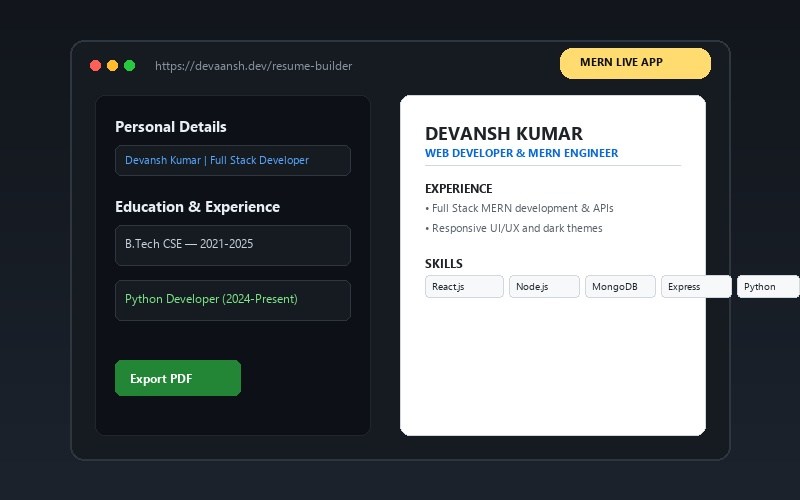
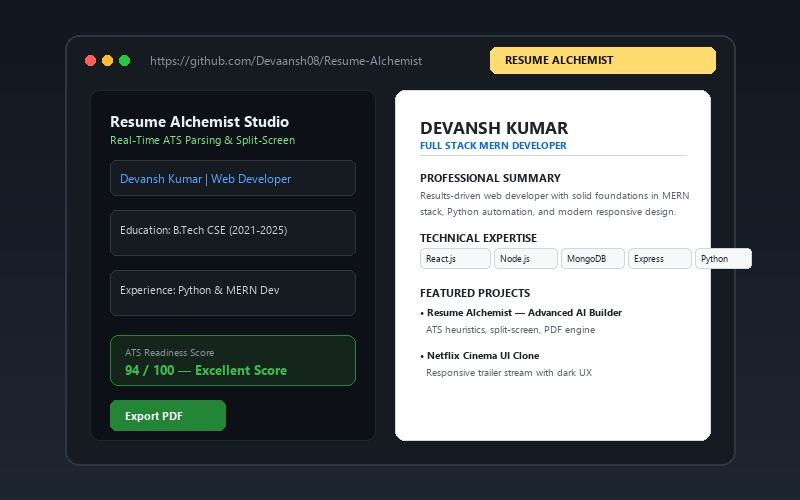
feat: integrate Resume-Alchemist into Resume Builder section and portfolio showcase

Changed region(s): [[0.0625, 0.06, 1.0, 0.93], [0.125, 0.21, 0.4375, 0.66], [0.125, 0.69, 0.4375, 0.87]]

diff --git a/client/src/pages/ResumeBuilder.jsx b/client/src/pages/ResumeBuilder.jsx
@@ -56,10 +56,10 @@ const initialResumeState = {
   ],
   projects: [
     {
-      title: 'MERN Stack Personal Portfolio',
-      link: 'https://github.com/Devaansh08/-Personal-Portfolio',
+      title: 'Resume Alchemist — Advanced AI Builder',
+      link: 'https://github.com/Devaansh08/Resume-Alchemist',
       description:
-        'Full-stack portfolio featuring dynamic MongoDB backend, REST endpoints, interactive Resume Builder, and responsive dark glassmorphism UI.',
+        'Enterprise-grade full-stack resume builder featuring real-time ATS heuristic evaluation, split-screen preview, multi-format import, and cloud persistence.',
     },
     {
       title: 'Netflix UI Streaming Clone',
@@ -75,6 +75,23 @@ export default function ResumeBuilder() {
   const [toast, setToast] = useState(null);
   const [newSkill, setNewSkill] = useState('');
   const [isSaving, setIsSaving] = useState(false);
+  const [selectedTemplate, setSelectedTemplate] = useState('Modern');
+
+  const calculateATSScore = () => {
+    let score = 0;
+    if (resume.personalInfo.fullName?.trim()) score += 10;
+    if (resume.personalInfo.email?.trim()) score += 10;
+    if (resume.personalInfo.phone?.trim()) score += 5;
+    if (resume.personalInfo.location?.trim()) score += 5;
+    if (resume.personalInfo.summary?.trim()?.length > 40) score += 15;
+    if (resume.education?.length > 0) score += 15;
+    if (resume.experience?.length > 0) score += 20;
+    if (resume.skills?.length >= 4) score += 10;
+    if (resume.projects?.length > 0) score += 10;
+    return Math.min(100, score);
+  };
+
+  const atsScore = calculateATSScore();
 
   const showToast = (type, message) => {
     setToast({ type, message });
@@ -221,13 +238,39 @@ export default function ResumeBuilder() {
     <article className="resume-builder active" data-page="resume-builder">
       <header className="resume-builder-header">
         <div>
-          <h2 className="h2 article-title">Resume Builder</h2>
-          <p style={{ color: 'var(--light-gray-70)', fontSize: 'var(--fs-6)', marginTop: '4px' }}>
-            Full-stack MERN interactive generator with real-time preview and MongoDB sync.
+          <div style={{ display: 'flex', alignItems: 'center', gap: '10px', flexWrap: 'wrap' }}>
+            <h2 className="h2 article-title" style={{ margin: 0 }}>Resume Alchemist</h2>
+            <span
+              style={{
+                fontSize: '11px',
+                color: 'var(--orange-yellow-crayola)',
+                background: 'rgba(255, 219, 112, 0.15)',
+                padding: '4px 10px',
+                borderRadius: '8px',
+                border: '1px solid var(--orange-yellow-crayola)',
+                fontWeight: '600',
+              }}
+            >
+              v2.0 Full-Stack Engine
+            </span>
+          </div>
+          <p style={{ color: 'var(--light-gray-70)', fontSize: 'var(--fs-6)', marginTop: '6px' }}>
+            Powered by <strong>Resume Alchemist</strong> — real-time ATS optimization, split-screen live preview, and MongoDB cloud sync.
           </p>
         </div>
 
         <div className="resume-builder-actions">
+          <a
+            href="https://github.com/Devaansh08/Resume-Alchemist"
+            target="_blank"
+            rel="noopener noreferrer"
+            className="btn-secondary"
+            title="View Resume-Alchemist repository on GitHub"
+          >
+            <ion-icon name="logo-github"></ion-icon>
+            <span>GitHub Repo</span>
+          </a>
+
           <button
             type="button"
             className="btn-secondary"
@@ -264,6 +307,63 @@ export default function ResumeBuilder() {
           </button>
         </div>
       </header>
+
+      {/* Real-time ATS & Template Switcher Bar */}
+      <div
+        style={{
+          display: 'flex',
+          justifyContent: 'space-between',
+          alignItems: 'center',
+          flexWrap: 'wrap',
+          gap: '12px',
+          background: 'var(--onyx)',
+          border: '1px solid var(--jet)',
+          borderRadius: '14px',
+          padding: '12px 18px',
+          marginBottom: '20px',
+        }}
+      >
+        <div style={{ display: 'flex', alignItems: 'center', gap: '12px' }}>
+          <div
+            style={{
+              width: '36px',
+              height: '36px',
+              borderRadius: '8px',
+              background: atsScore >= 80 ? 'rgba(46, 204, 113, 0.15)' : 'rgba(243, 156, 18, 0.15)',
+              display: 'flex',
+              alignItems: 'center',
+              justifyContent: 'center',
+              color: atsScore >= 80 ? '#2ecc71' : '#f39c12',
+              fontSize: '18px',
+            }}
+          >
+            <ion-icon name="speedometer-outline"></ion-icon>
+          </div>
+          <div>
+            <div style={{ fontSize: '11px', color: 'var(--light-gray-70)', textTransform: 'uppercase', letterSpacing: '0.5px' }}>
+              Real-Time ATS Readiness Score
+            </div>
+            <div style={{ fontSize: '14px', fontWeight: '600', color: atsScore >= 80 ? '#2ecc71' : '#f39c12' }}>
+              {atsScore} / 100 — {atsScore >= 80 ? 'Excellent Match (ATS Pass)' : 'Good Progress (Add more details)'}
+            </div>
+          </div>
+        </div>
+
+        <div style={{ display: 'flex', alignItems: 'center', gap: '8px' }}>
+          <span style={{ fontSize: '12px', color: 'var(--light-gray)' }}>Template:</span>
+          {['Modern', 'Executive', 'Minimalist'].map((t) => (
+            <button
+              key={t}
+              type="button"
+              onClick={() => setSelectedTemplate(t)}
+              className={selectedTemplate === t ? 'btn-primary' : 'btn-secondary'}
+              style={{ padding: '4px 10px', fontSize: '11px' }}
+            >
+              {t}
+            </button>
+          ))}
+        </div>
+      </div>
 
       {/* Toast Alert */}
       {toast && (

diff --git a/server/seed/seed.js b/server/seed/seed.js
@@ -88,13 +88,13 @@ const seedProfile = {
 const seedProjects = [
   // 1. Applications (App Development)
   {
-    title: 'Resume Builder (MERN Stack)',
+    title: 'Resume Alchemist (AI Resume Builder)',
     category: 'applications',
     image: '/projects/resume-builder.jpg',
-    description: 'A dynamic, full-stack Resume Builder built with the MERN stack. Features real-time responsive document preview, dynamic multi-section builder (Education, Experience, Skills), MongoDB cloud persistence, and instant PDF printing.',
-    techStack: ['React', 'Node.js', 'Express', 'MongoDB', 'CSS3 Print'],
+    description: 'Advanced full-stack AI resume builder featuring real-time ATS heuristic evaluation, split-screen live preview, multi-format export, professional templates, and MongoDB cloud synchronization.',
+    techStack: ['React 19', 'TypeScript', 'Node.js', 'Express', 'MongoDB', 'ATS Scoring'],
     liveUrl: '/resume-builder',
-    githubUrl: 'https://github.com/Devaansh08/-Personal-Portfolio',
+    githubUrl: 'https://github.com/Devaansh08/Resume-Alchemist',
     featured: true,
     order: 1,
   },

diff --git a/client/src/pages/Portfolio.jsx b/client/src/pages/Portfolio.jsx
@@ -8,13 +8,13 @@ const fallbackProjects = [
   // 1. Applications
   {
     _id: '1',
-    title: 'Resume Builder (MERN Stack)',
+    title: 'Resume Alchemist (AI Resume Builder)',
     category: 'applications',
     image: '/projects/resume-builder.jpg',
-    description: 'A dynamic, full-stack Resume Builder built with the MERN stack. Features real-time live preview, modular sections (Education, Experience, Skills), MongoDB persistence, and instant one-click PDF printing.',
-    techStack: ['React', 'Node.js', 'Express', 'MongoDB', 'CSS3 Print'],
+    description: 'Advanced full-stack AI resume builder featuring real-time ATS heuristic evaluation, split-screen live preview, multi-format export, professional templates, and MongoDB cloud synchronization.',
+    techStack: ['React 19', 'TypeScript', 'Node.js', 'Express', 'MongoDB', 'ATS Scoring'],
     liveUrl: '/resume-builder',
-    githubUrl: 'https://github.com/Devaansh08/-Personal-Portfolio',
+    githubUrl: 'https://github.com/Devaansh08/Resume-Alchemist',
     featured: true,
   },
   {
